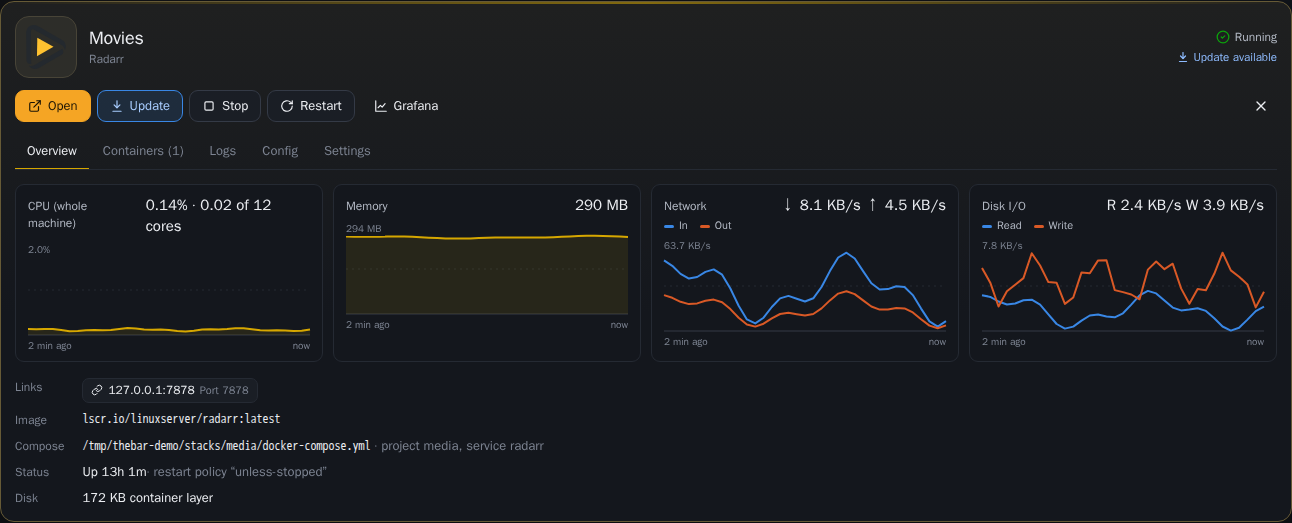
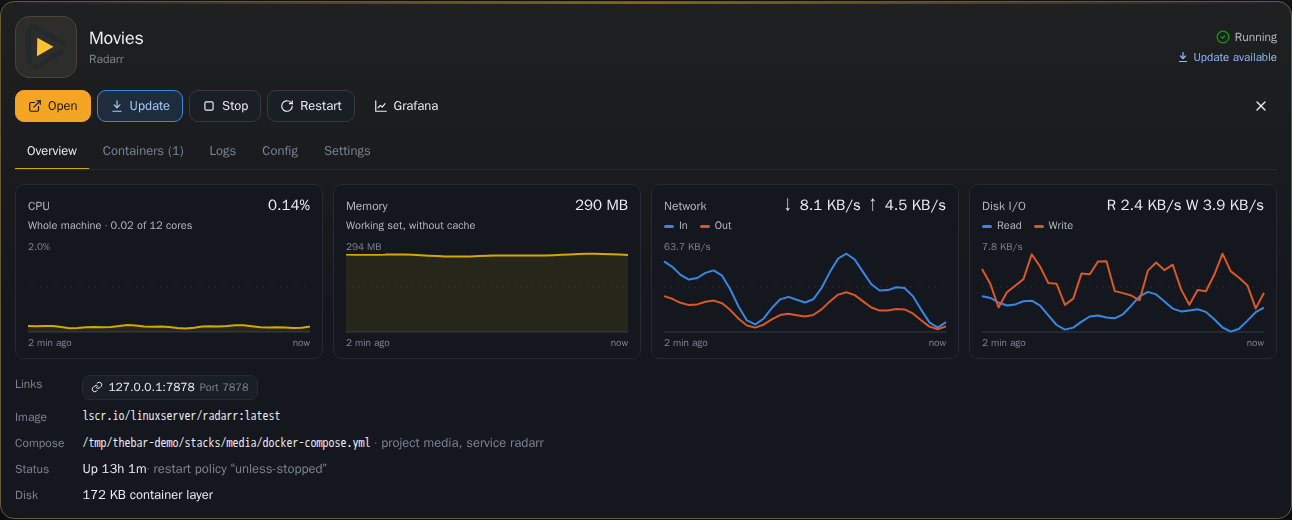
Fix the CPU chart header wrapping onto two lines
The chart title ("CPU (whole machine)") and value ("0.14% · 0.02 of 12
cores") were both long, so they wrapped, and the CPU and Memory plots sat
higher than the Network and Disk ones (which have a legend line).

- CPU: short title and value; "Whole machine · 0.02 of 12 cores" moves to
  a caption line. Memory gets one too ("Working set, without cache")
- the caption uses the slot where two-series charts have their legend, so
  all four plots line up
- values never break mid-value: on very narrow screens a long one drops
  to its own line

Checked at 1360, 1000, 760, 520, 390 and 320 px against the fake Docker
host. README card screenshot regenerated.

diff --git a/frontend/src/components/Chart.svelte b/frontend/src/components/Chart.svelte
@@ -10,7 +10,16 @@
     format,
     min = 1,
     value = '',
-  }: { title: string; series: Series[]; times: number[]; format: (v: number) => string; min?: number; value?: string } = $props();
+    sub = '',
+  }: {
+    title: string;
+    series: Series[];
+    times: number[];
+    format: (v: number) => string;
+    min?: number;
+    value?: string;
+    sub?: string; // small caption under the title, where a two-series chart has its legend
+  } = $props();
 
   const W = 300;
   const H = 90;
@@ -44,6 +53,8 @@
         <span><i style="background:{s.color}"></i>{s.name}</span>
       {/each}
     </div>
+  {:else}
+    <div class="legend sub" title={sub}>{sub}</div>
   {/if}
   <div class="plot">
     <svg
@@ -92,22 +103,35 @@
   }
   figcaption {
     display: flex;
+    flex-wrap: wrap; /* a long value drops to its own line instead of breaking mid-value */
     justify-content: space-between;
     align-items: baseline;
-    gap: 8px;
+    gap: 0 8px;
   }
   .t {
     font-size: 12px;
     color: var(--text-2);
     font-weight: 600;
+    white-space: nowrap;
   }
   .v {
     font-size: 15px;
     font-weight: 600;
+    white-space: nowrap;
+    margin-left: auto;
+  }
+  .sub {
+    display: block;
+    overflow: hidden;
+    text-overflow: ellipsis;
+    white-space: nowrap;
+    color: var(--text-3);
   }
   .legend {
     display: flex;
     gap: 12px;
+    min-height: 16px; /* same height with a legend or a caption, so the plots line up */
+    align-items: center;
     font-size: 11px;
     color: var(--text-2);
     margin-top: 2px;

diff --git a/frontend/src/components/CardDetail.svelte b/frontend/src/components/CardDetail.svelte
@@ -93,8 +93,9 @@
       {#if running.length}
         <div class="charts">
           <Chart
-            title="CPU (whole machine)"
-            value="{pct(last(agg.cpu))} · {cores(last(agg.cpu), app.host?.cores)}"
+            title="CPU"
+            value={pct(last(agg.cpu))}
+            sub="Whole machine · {cores(last(agg.cpu), app.host?.cores)}"
             series={[{ name: 'CPU', values: agg.cpu, color }]}
             times={agg.t}
             format={(v) => pct(v)}
@@ -102,6 +103,7 @@
           <Chart
             title="Memory"
             value={bytes(last(agg.mem))}
+            sub="Working set, without cache"
             series={[{ name: 'Memory', values: agg.mem, color }]}
             times={agg.t}
             format={(v) => bytes(v)}
